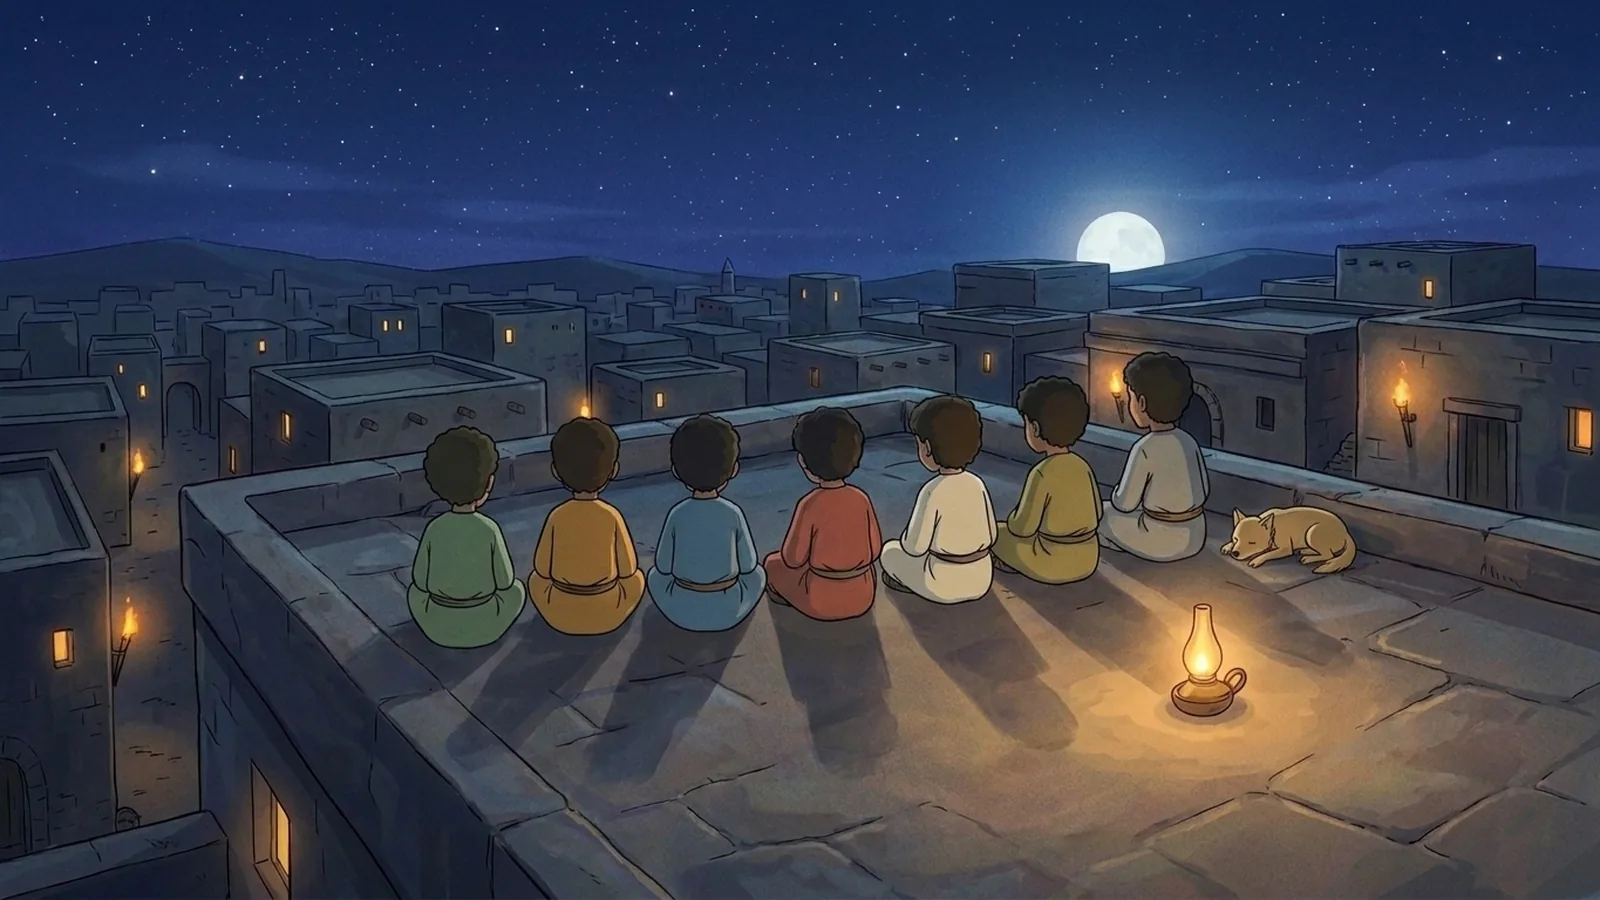
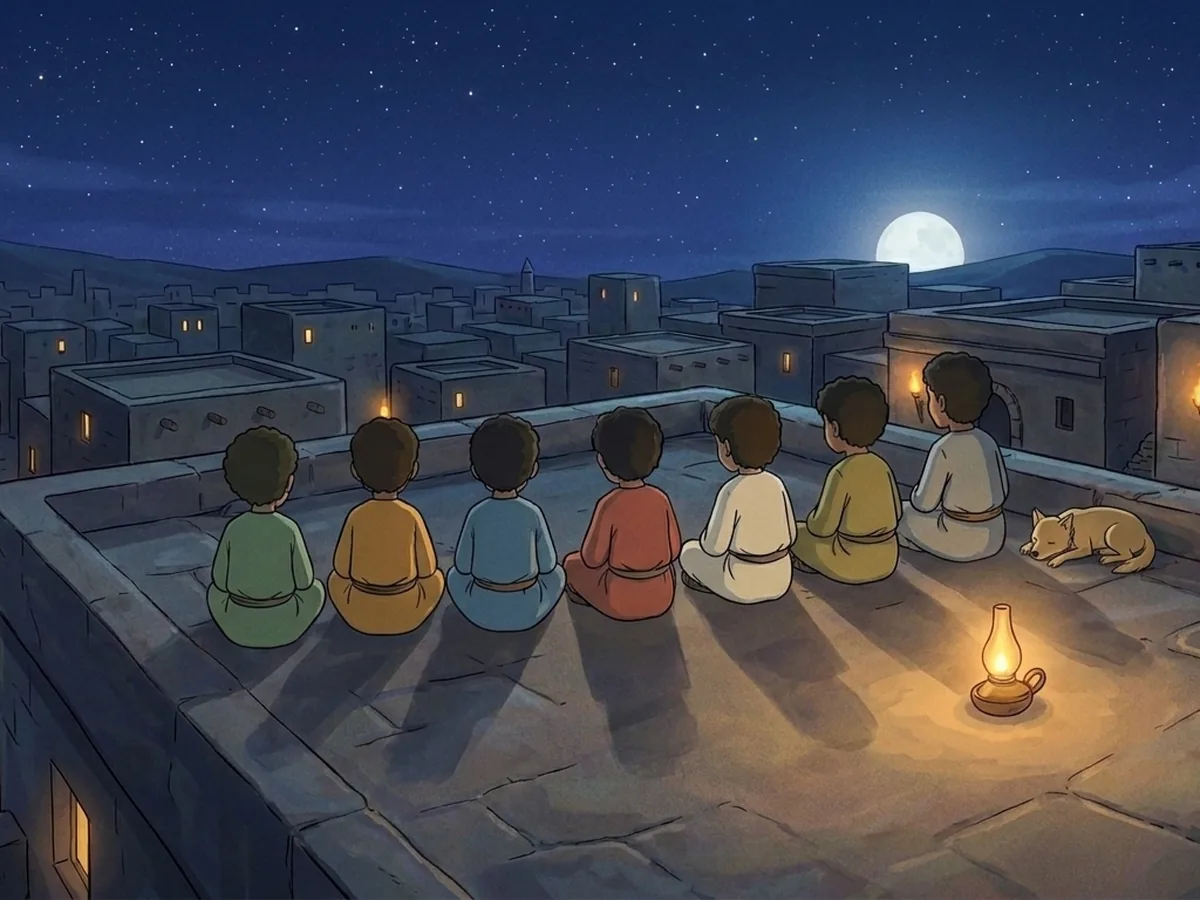
🖼 إطارُ الصورة ٤:٣ ليملأ فراغَ الصفحة
الصورةُ محدودةٌ بعرض الصفحة لا بارتفاعها، فلا تكبر إلّا بإطارٍ
أطول: على هاتف ٣٩٠ ترتفع من ٢٠٤ بكسل إلى ٢٧٢. وهذا يعكس
f359366، وحجّتُه يومَها أنّ ١٦:٩ يُوسّع صندوقَ النصّ — وسَعةُ
الصندوق هي ما ضاق به الذرعُ اليوم.

والعشرُ قُصّت من مصدرها ٤:٣، بمركزٍ موضوعٍ لكلّ مشهدٍ لا بقصٍّ
متوازنٍ أعمى: في ١ كان سابعُهم يخرج نصفَه عن الحافّة، وفي ٩
يُقتطع البائع. والأهلّةُ في ٨ تسعةٌ وبدرٌ كما كانت.

وrev = ٣ فتصل الصورُ الجديدةُ إلى من في مخزنه القديمة. وأرقامُ
الدليل تُردّ إلى ١٨٠ حرفاً و٤٦٥، وعتباتُ عدّاد المحرّر معها.

diff --git a/index.html b/index.html
@@ -1658,10 +1658,10 @@ body.glow-off .dfpic{animation:none}
   white-space:nowrap;overflow:hidden;text-overflow:ellipsis}
 .stcount{flex:0 0 auto;font-weight:900;font-size:14px;color:var(--on2);background:var(--pnl);
   border:2px solid var(--pb);border-radius:999px;padding:4px 13px;font-variant-numeric:tabular-nums}
-.stimgbox{position:relative;width:100%;aspect-ratio:16/9;border-radius:18px;overflow:hidden;
+.stimgbox{position:relative;width:100%;aspect-ratio:4/3;border-radius:18px;overflow:hidden;
   background:var(--pnl3);border:3px solid var(--pb);margin-bottom:14px}
-/* صورُ القصص ١٦:٩ كإطارِها، فـcover وcontain سواءٌ ما دام الإطارُ على نسبته.
-   وإذا ضاق الارتفاعُ (max-height أدناه) خرج الإطارُ عن ١٦:٩، فـcontain يترك
+/* صورُ القصص ٤:٣ كإطارِها، فـcover وcontain سواءٌ ما دام الإطارُ على نسبته.
+   وإذا ضاق الارتفاعُ (max-height أدناه) خرج الإطارُ عن ٤:٣، فـcontain يترك
    شريطَين فارغَين عن جانبَيها — وcover يملأ ويقتطع من أعلاها وأسفلها قليلاً */
 .stimgbox img{width:100%;height:100%;object-fit:cover;display:block;
   opacity:0;transition:opacity .35s}
@@ -1699,7 +1699,7 @@ body.glow-off .dfpic{animation:none}
   touch-action:pan-y;overscroll-behavior:none}
 /* حصّةٌ ثابتةٌ لكلٍّ منهما، فلا يتراقص الإطارُ بين صفحةٍ وصفحة تبعاً لطول
    النصّ: الصورةُ تأخذ ما بقي، والنصُّ قدرٌ معلومٌ يُمرَّر في صندوقه إن طال */
-#scr-story .stimgbox{flex:0 0 auto;aspect-ratio:16/9;max-height:46%;margin-bottom:0}
+#scr-story .stimgbox{flex:0 0 auto;aspect-ratio:4/3;max-height:46%;margin-bottom:0}
 #scr-story .sttext{flex:1 1 auto;min-height:0;
   overflow-y:auto;overscroll-behavior:contain;-webkit-overflow-scrolling:touch}
 #scr-story .stload,#scr-story .gmnote{flex:1 1 auto;display:flex;align-items:center;justify-content:center;margin:0}

diff --git a/stories/كيف-أضيف-قصة.md b/stories/كيف-أضيف-قصة.md
@@ -11,18 +11,18 @@
 
 | | |
 |---|---|
-| **النسبة** | ١٦:٩ أفقيّة — لازمة، فالإطارُ ثابتٌ عليها |
-| **المقاس** | **١٦٠٠ × ٩٠٠** بكسل |
-| **الأدنى المقبول** | ١٠٦٤ × ٥٩٢ |
+| **النسبة** | ٤:٣ أفقيّة — لازمة، فالإطارُ ثابتٌ عليها |
+| **المقاس** | **١٢٠٠ × ٩٠٠** بكسل |
+| **الأدنى المقبول** | ٨٠٠ × ٦٠٠ |
 | **الصيغة** | WebP (أو SVG للرسم المتّجه، أو PNG) |
 | **الحجم** | دون ١٥٠ كيلوبايت للصورة |
 
 أكبرُ إطارٍ تُعرض فيه الصورةُ على الهواتف هو ٣٧٨×٢٨٢ نقطةً منطقيّة — أي
-١١٣٤ بكسلاً عرضاً على شاشةٍ ثلاثيّة الكثافة. فـ ١٦٠٠×٩٠٠ تكفيها
+١١٣٤×٨٤٦ بكسلاً حقيقيّاً على شاشةٍ ثلاثيّة الكثافة. فـ ١٢٠٠×٩٠٠ تكفيها
 وتزيد.
 
-والصورةُ تُعرض **كاملةً بلا قصّ**، فلا يُقتطع من أطرافها شيء. لكنّ ما خرج
-عن نسبة ١٦:٩ يترك شريطَين فارغَين فوقه وتحته.
+والصورةُ **تملأ إطارَها**، فما خرج عن نسبة ٤:٣ يُقتطع من أطرافه. فاحرصْ
+ألّا يقع شيءٌ مهمٌّ عند الحافّة.
 
 ### الغلاف
 
@@ -32,11 +32,11 @@
 
 | | |
 |---|---|
-| **الأفضل** | **١٥٠ – ٢٧٠ حرفاً** للصفحة (٢٥ – ٤٥ كلمة) |
-| **الأقصى بلا تمرير** | ٥٥٨ حرفاً على الهواتف الحديثة |
-| | والهاتفُ الصغير (٣٦٠×٦٤٠) يسع **٢٧٩ حرفاً** |
+| **الأفضل** | **١٢٠ – ١٨٠ حرفاً** للصفحة (٢٠ – ٣٠ كلمة) |
+| **الأقصى بلا تمرير** | ٤٦٥ حرفاً (٨٠ كلمة) على الهواتف الحديثة |
+| | لكنّ الهاتفَ الصغير (٣٦٠×٦٤٠) لا يسع إلّا **١٨٦ حرفاً** |
 
-فمن التزم ٢٧٠ حرفاً لم يحتج طفلٌ إلى تمرير النصّ على أيّ جهاز. وما زاد
+فمن التزم ١٨٠ حرفاً لم يحتج طفلٌ إلى تمرير النصّ على أيّ جهاز. وما زاد
 يُمرَّر في صندوقه — لا تتحرّك الصفحةُ ولا يغيب الزرّان.
 
 وفصْلُ الفقرات بسطرٍ فارغ (`\n\n`) أريحُ للعين.
